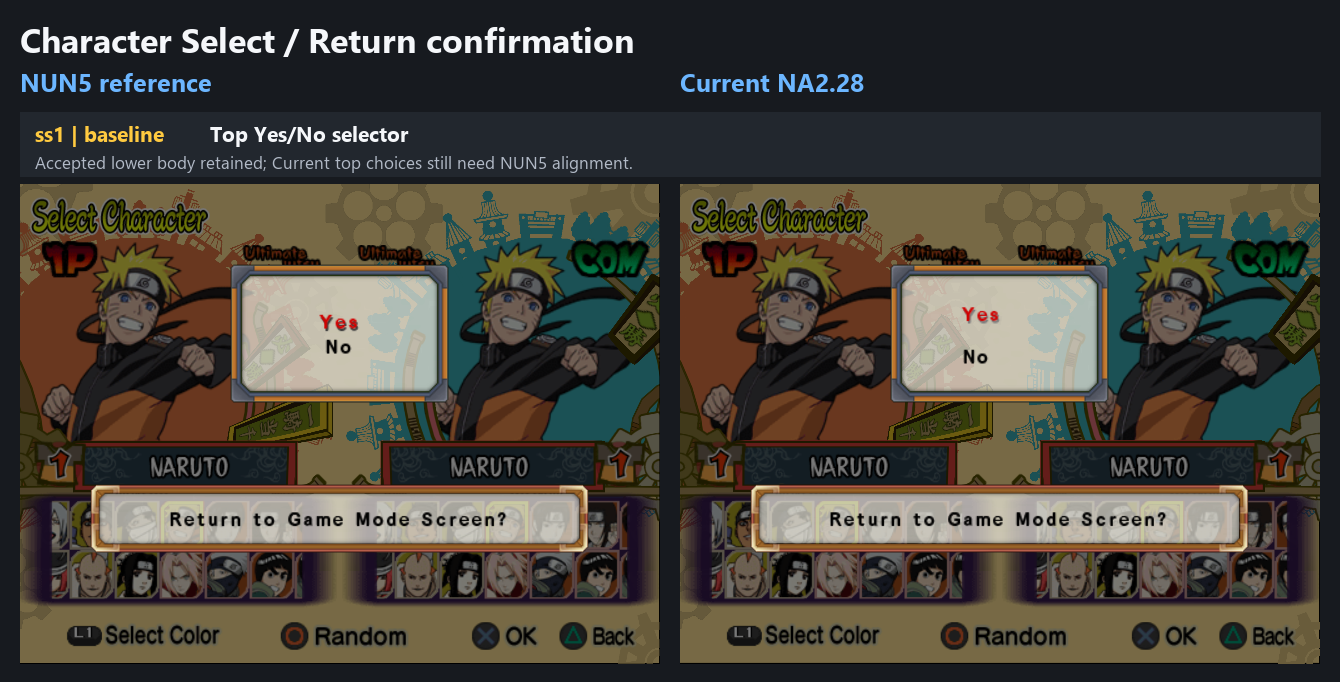
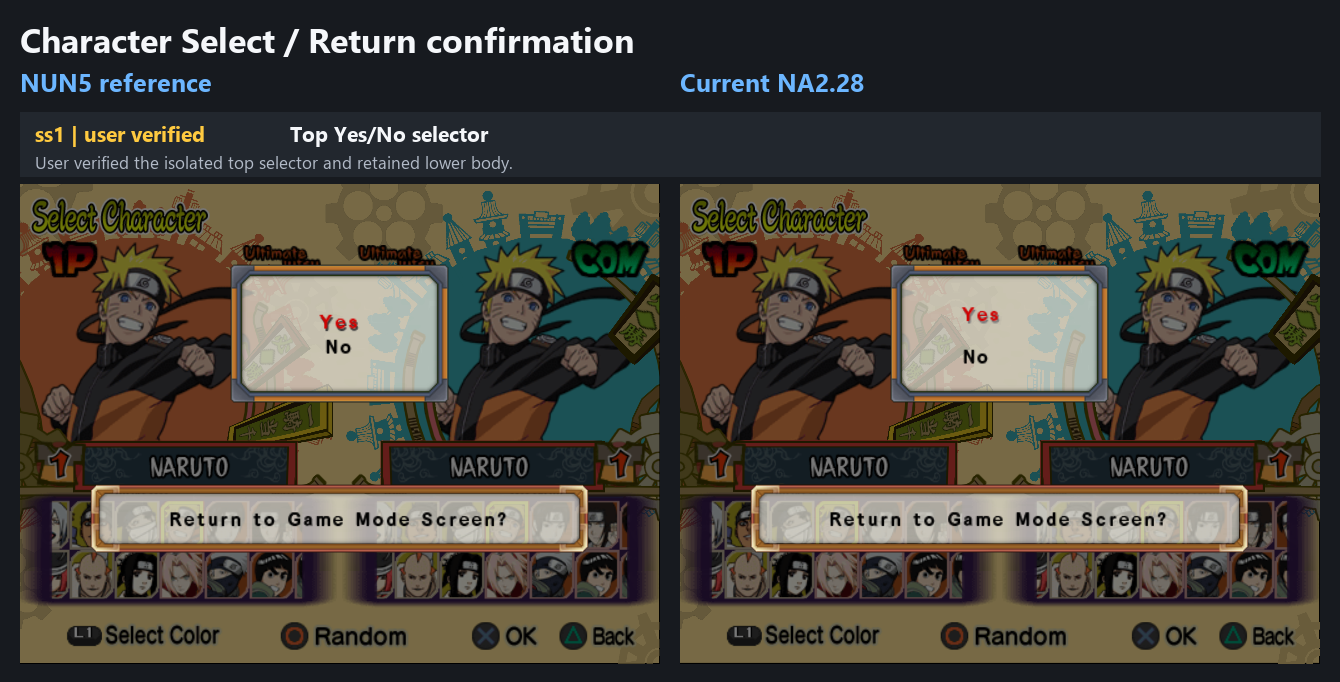
[Font] Record selector regression evidence

Changed region(s): [[0.0306, 0.1848, 0.459, 0.2463]]

diff --git a/docs/workstreams/font/epics/ss2-6-layout/README.md b/docs/workstreams/font/epics/ss2-6-layout/README.md
@@ -12,14 +12,13 @@ case.
 ## Execution state
 
 - Mode: Continuous.
-- Current subtask: stopped after Priority 4 — ss7 Collection exit confirmation,
-  as explicitly requested. Implementation commit `76e5023f` is pushed;
-  clean-construction runtime output and user acceptance remain pending.
-- Pending grid: none; the exact missing-input response was visibly delivered
-  after commit `76e5023f`.
-- Next action: when a fresh post-build ss7 screenshot or savestate is supplied,
-  finish only the Priority 4 result report and acceptance state. Do not start
-  Priority 5 without a new continuation instruction.
+- Current subtask: Priority 2 — supplemental ss1/ss2 Character Select
+  option-list regressions. Continuous implementation resumed by explicit user
+  instruction; Priority 3 follows with the corrected selective-wrap contract.
+- Pending grid:
+  `docs/workstreams/font/epics/ss2-6-layout/2-linked-mode-modal.png`.
+- Next action: commit and visibly deliver the refreshed evidence grids, then
+  fix Priority 2 as one bounded option-list family.
 
 ## Scope and evidence
 
@@ -29,6 +28,12 @@ case.
   `work/Font/inputs/screenshots/batches/2026-07-30-ss1-10/`.
 - State provenance and hashes:
   `work/Font/inputs/sstates/batches/2026-07-30-ss1-10/provenance.tsv`.
+- Supplemental regression inputs:
+  `work/Font/inputs/sstates/batches/2026-07-30-regressions/`.
+- Supplemental extracted screenshots:
+  `work/Font/inputs/screenshots/batches/2026-07-30-regressions/`.
+- Supplemental provenance and hashes:
+  `work/Font/inputs/sstates/batches/2026-07-30-regressions/provenance.tsv`.
 - Compatible independent worker ISO provenance:
   `work/Font/inputs/sstates/batches/2026-07-30-ss1-10/iso_provenance.tsv`.
 - Protected `@pcsx2_dev` sources remain untouched.
@@ -36,6 +41,13 @@ case.
   center modal; ss3–ss6 one Jutsu-selector defect, with ss3/ss4 supplied as
   precursors and ss5/ss6 showing the defect; ss7 Collection confirmation; ss8
   Movie list; ss9–ss10 character move lists.
+- The supplemental pair reuses ss1 for the Character Select player-mode option
+  list and ss2 for Linked Mode with `Manual` highlighted. It supplements rather
+  than replaces the original batch: the original ss1 remains the accepted
+  return-confirmation evidence.
+- Supplemental ss3 is the current collapsed Jutsu-selector regression: the
+  long selected title remains unwrapped, while native short one-line rows are
+  the behavior that must be preserved.
 - Every slot is loaded directly. The user supplied the exact Priority 3
   constructor sequence ss3 -> Cross -> ss4 -> Circle -> ss5 -> Cross -> ss6,
   but the final draw-time caller executes after direct ss5 and ss6 reloads, so
@@ -49,19 +61,23 @@ case.
 ### Priority 1 — ss1: Return confirmation
 
 - State: accepted lower-body fix retained; isolated top-selector fix is
-  committed, pushed, agent-validated, and visibly delivered; user acceptance
-  remains pending.
+  committed, pushed, agent-validated, visibly delivered, and user-verified on
+  2026-07-30.
 - Result: the scoped top Yes/No list has the same offsets from its modal origin
   as NUN5 while the accepted lower body remains unchanged.
 
 ![Priority 1 Character Select confirmation baseline](1-character-select-confirmation.png)
 
-### Priority 2 — ss2: Linked Mode center modal
+### Priority 2 — supplemental ss1–ss2: Character Select option lists
 
-- State: isolated three-instruction fix is committed, pushed,
-  agent-validated, and visibly delivered; user acceptance remains pending.
-- Result: the center-modal `Linked Mode`, `Manual`, and `Auto` labels now
-  match the NUN5 vertical geometry without changing another modal or renderer.
+- State: reopened by user-supplied regression evidence on 2026-07-30.
+  The earlier default Linked Mode view did not cover highlight-state changes.
+- ss1: the highlighted first player-mode row matches, but the non-highlighted
+  rows drift progressively downward relative to NUN5.
+- ss2: selecting `Manual` exposes incorrect selected/non-highlighted row
+  geometry in the Linked Mode modal.
+- Remaining action: isolate the shared option-list row behavior without
+  disturbing the verified return-confirmation family.
 
 ![Priority 2 Linked Mode baseline](2-linked-mode-modal.png)
 
@@ -69,21 +85,18 @@ case.
 
 ### Priority 3 — ss3–ss6: One Jutsu-selector defect
 
-- State: committed and pushed in `1d0f7e2f`, agent-validated on supplied ss5
-  and ss6, and visibly delivered; user acceptance remains pending. The exact
-  native row draw at live BTL
-  `0x006BCFDC` is isolated behind one guarded C caller. Both long selected
-  names wrap inside the NUN5 186-by-32 two-line box. A session-scoped
-  20-unit glyph bottom edge and explicit 16-unit row advance match the NUN5
-  normalized top, bottom, height, and line spacing without changing another
-  renderer session.
-- ss3 and ss4 are supplied precursors for this one caller family.
-- ss5 and ss6 visibly prove that Current keeps long Jutsu names on one line
-  and overflows, while NUN5 wraps them inside the selector bounds.
-- Runtime validation used direct supplied ss5 and ss6 loads; no game input or
-  menu navigation was required.
+- State: rejected and reopened by user evidence on 2026-07-30. The current
+  enabled-off build does nothing in supplemental ss3. The earlier candidate
+  also over-scoped its session height/advance changes to collapsed one-line
+  strings that NUN5 leaves native.
+- The canonical hook is currently disabled after the build-offset repair in
+  `76f445f4`; its corrected BTL file offset is `0x90DC`.
+- Corrected contract: preserve native short one-line rows exactly and invoke
+  the NUN5-matched two-line box only when the selected title requires wrapping.
+- Supplemental ss3 is the current collapsed target. Original ss5/ss6 remain
+  retained evidence for the same long-title family in its other visible state.
 
-![Priority 3 Jutsu-selector baselines](3-jutsu-selector.png)
+![Priority 3 Jutsu-selector regression](3-jutsu-selector.png)
 
 ## Collection
 
@@ -124,12 +137,13 @@ case.
 
 Priority is determined by the most efficient implementation order.
 
-1. **ss1 — Character Select return confirmation.** Finish the already-isolated
-   top selector while preserving the accepted lower body.
-2. **ss2 — Linked Mode center modal.** Correct the shared three-label vertical
-   geometry as one bounded caller.
+1. **ss1 — Character Select return confirmation.** User-verified.
+2. **supplemental ss1–ss2 — Character Select option lists.** Fix
+   non-highlighted player-mode rows and the Manual-selected Linked Mode
+   geometry as one bounded option-list family.
 3. **ss3–ss6 — one Jutsu-selector defect.** Use ss5/ss6 as visible targets and
-   retain ss3/ss4 only as the supplied precursor states.
+   supplemental ss3 as the collapsed target; preserve every native short
+   one-line row and wrap only the NUN5-wrapped long selected title.
 4. **ss7 — Collection exit confirmation.** Match its body and choice geometry
    without affecting the Character Select modal family.
 5. **ss8 — Movie list.** Implement caller-specific variable-height wrapped
